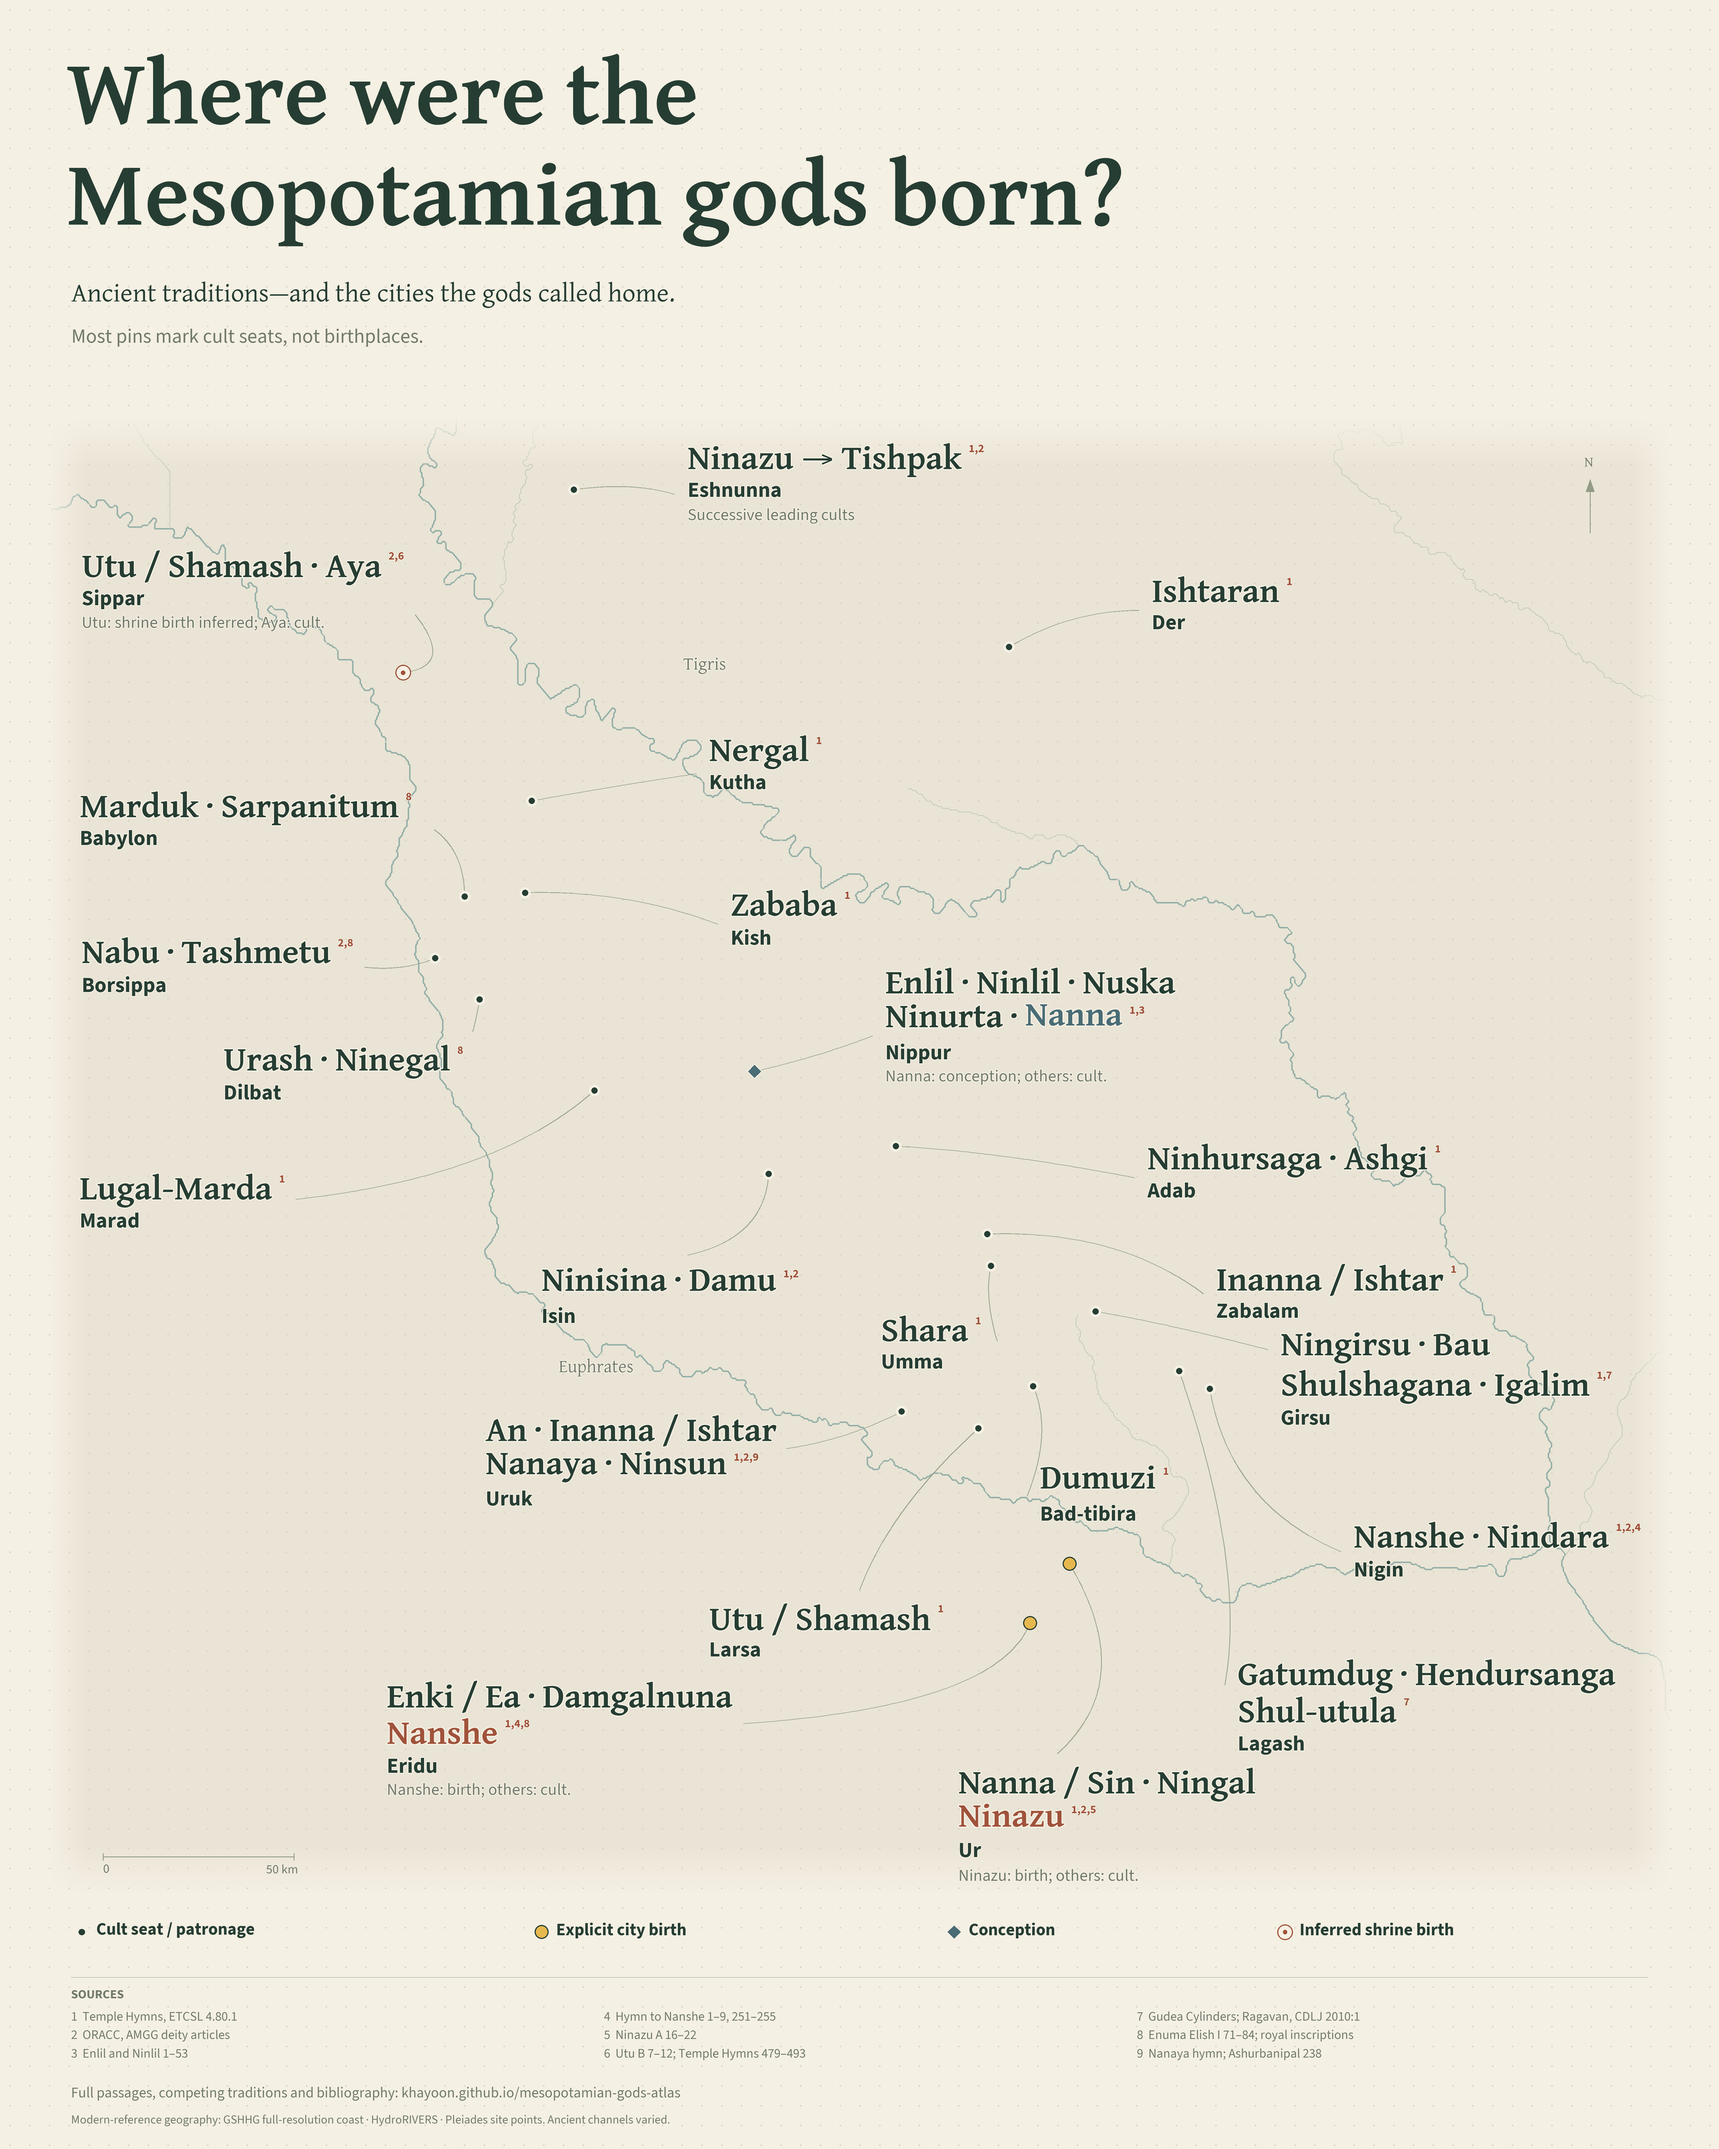
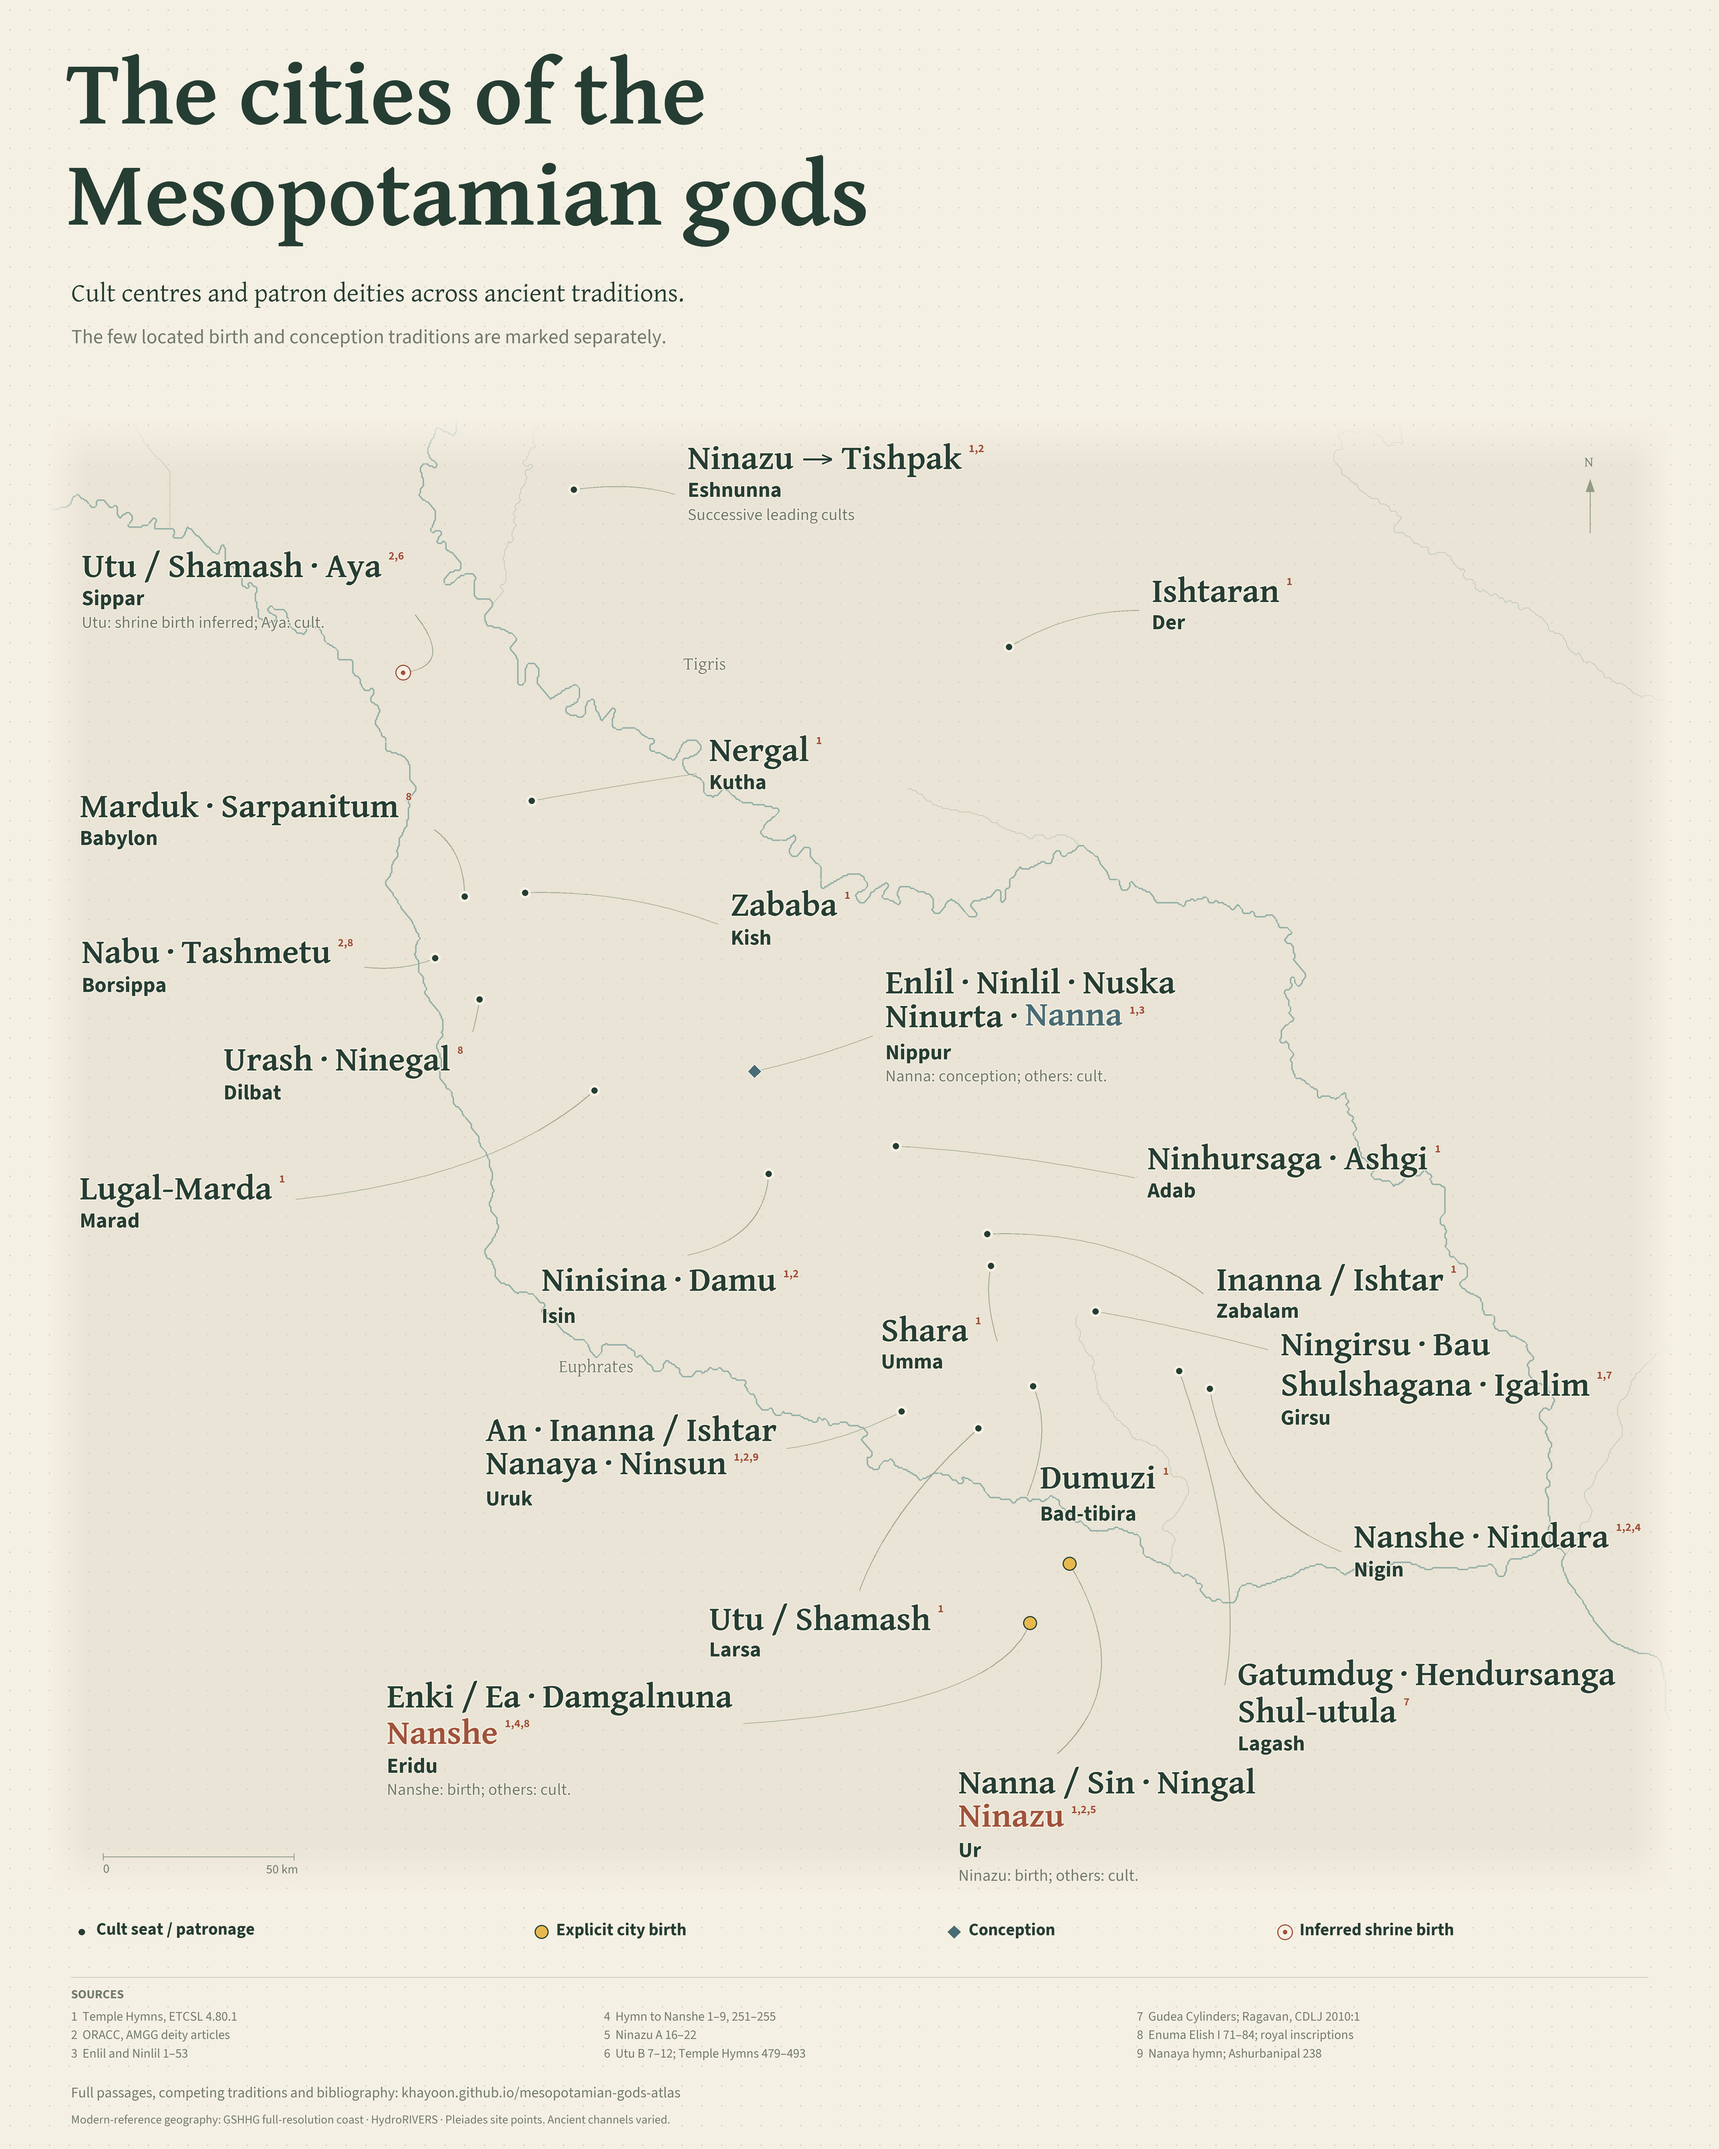
Lead with cult cities in the poster title and companion

Changed region(s): [[0.0312, 0.0312, 0.4062, 0.0624], [0.0312, 0.1248, 0.375, 0.156], [0.5, 0.0624, 0.6562, 0.1248]]

diff --git a/docs/index.html b/docs/index.html
@@ -1,11 +1,11 @@
 <!doctype html>
 <html lang="en"><meta charset="utf-8"><meta name="viewport" content="width=device-width,initial-scale=1">
-<title>Where were the Mesopotamian gods born?</title>
-<meta name="description" content="A downloadable scholarly map of Mesopotamian divine birth traditions and cult cities, with a sourced research catalogue.">
+<title>The cities of the Mesopotamian gods</title>
+<meta name="description" content="A scholarly map of Mesopotamian cult centres and patron deities, with the few located divine-origin traditions distinguished and a sourced research catalogue.">
 <link rel="stylesheet" href="style.css">
 <main>
-<h1>Where were the Mesopotamian gods born?</h1>
-<p class="intro">Ancient birth traditions—and the cities the gods called home. Most map pins are <strong>cult seats, not birthplaces</strong>. The sources distinguish local Sumerian traditions, Akkadian literary accounts and later Babylonian theology.</p>
+<h1>The cities of the Mesopotamian gods</h1>
+<p class="intro">Cult centres and patron deities across ancient traditions. The map follows the gods’ temples, civic roles and local associations. The few located birth and conception traditions are marked separately. The catalogue distinguishes Sumerian traditions, Akkadian literary accounts and later Babylonian theology.</p>
 <nav aria-label="Downloads and research"><a class="button" href="mesopotamian-gods.png" download>Download 4000 × 5000 PNG</a><a href="#research">Explore the research</a><a href="#composition">Adjust composition</a><a href="https://github.com/Khayoon/mesopotamian-gods-atlas">Source & credits</a></nav>
 <a href="mesopotamian-gods.png" aria-label="Open the full resolution poster"><img class="poster" src="poster-preview.jpg" width="1600" height="2000" alt="Portrait map of lower Mesopotamia showing deity cult cities, with separate markers for Nanshe born at Eridu, Ninazu born at Ur, Nanna conceived at Nippur and Utu's inferred Sippar shrine birth."></a>
 <section id="research"><h2>Research catalogue</h2>

diff --git a/scripts/build-data.py b/scripts/build-data.py
@@ -24,7 +24,7 @@ for item in merged.values():
     item['cultCityIds']=sorted(set(e['cityId'] for e in item['cityEvidence'] if e.get('cityId')))
     item['originStatus']='documented tradition' if item['originTraditions'] else 'No origin established in the sources checked'
 data={
-    'title':'Where were the Mesopotamian gods born?',
+    'title':'The cities of the Mesopotamian gods',
     'scope':'Lower Mesopotamia: Sumerian-language, Akkadian-language and Babylonian traditions. A selected evidence catalogue, not an exhaustive ancient god list.',
     'compiled':'2026-10-18',
     'method':'Birth, creation, conception, childhood, genealogy and cult association are separate claims. Null origin coordinates are deliberate. Documentary attestation is not the date of a deity\u2019s first invention. A city may have many gods and a god many cities.',

diff --git a/README.md b/README.md
@@ -1,4 +1,4 @@
-# Where were the Mesopotamian gods born?
+# The cities of the Mesopotamian gods
 
 A separate, source-led companion to the Greek gods atlas. **The main artifact is a 4000 × 5000 PNG poster.** The original Greek project was read only and was not changed.
 
@@ -10,7 +10,7 @@ A separate, source-led companion to the Greek gods atlas. **The main artifact is
 
 ## What the image means
 
-The poster retains the requested birthplace question, but answers it through a differentiated geography. Most pins are **cult seats or patronage associations**, not births. Its 22 city labels cover 41 deity identities, with names/aliases counted once even when a god has multiple cities. The companion contains 90 researched identity records, including lesser southern deities and unlocated/cosmic figures. This is a substantial selected catalogue, not an exhaustive god list or a claim to have searched every unpublished tablet.
+The poster's main subject is **cult centres and patron deities**: the cities where gods had temples, civic roles and local associations. The few located birth, conception and inferred-origin traditions are marked as secondary distinctions. Its 22 city labels cover 41 deity identities, with names/aliases counted once even when a god has multiple cities. The companion contains 90 researched identity records, including lesser southern deities and unlocated/cosmic figures. This is a substantial selected catalogue, not an exhaustive god list or a claim to have searched every unpublished tablet.
 
 Four categories are actually used on the poster:
 
